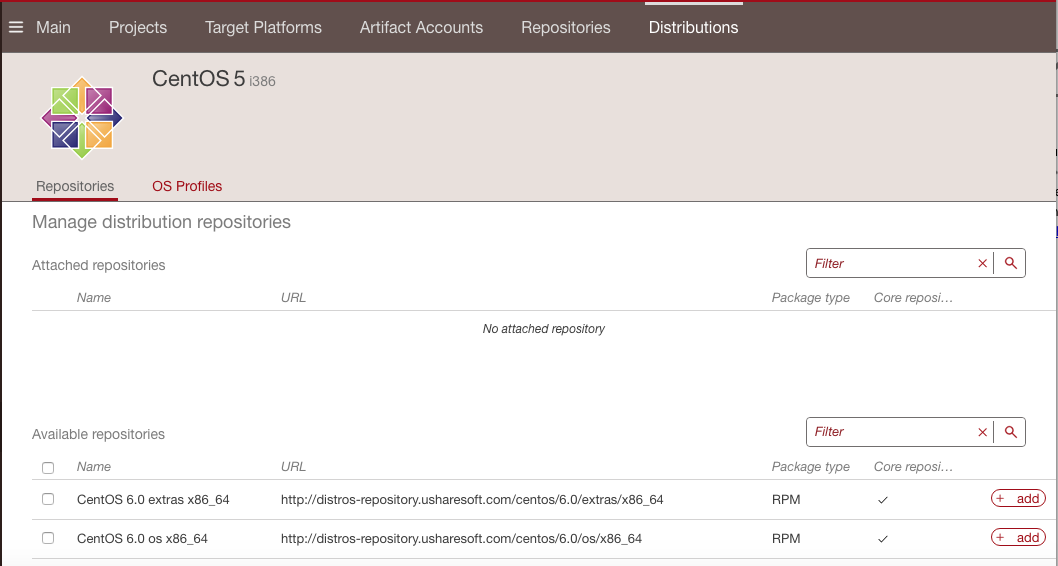
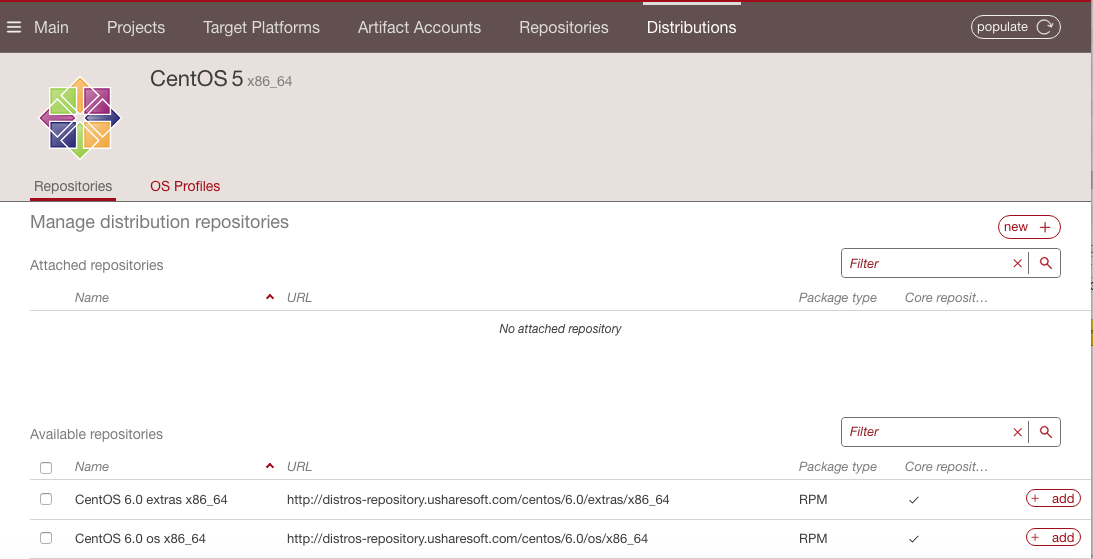
integrate new screen and note to show create repo from distrib screen

diff --git a/admin/en/source/pages/manage-resources/manage-os.rst b/admin/en/source/pages/manage-resources/manage-os.rst
@@ -86,11 +86,13 @@ In order to add an OS to an organisation you manage:
 
 		.. image:: /images/add-repo.png
 
+		You can also create new repositories by clicking on ``new``. You will be redirected to the page to create new repositories. For more information, refer to :ref:`creating-repo`.
+
 	#. You must populate the repositories. To do so, click on ``populate`` at the top right and follow the instructions in the pop-up window.
 
 		.. image:: /images/populate-popup.png
 
-	.. note:: The populate process will provide the base OS profiles.
+		.. note:: The populate process will provide the base OS profiles.
 
 	#. To add an OS profile (opional), go to the ``OS Profiles`` tab. You can create one by clicking on ``add os profile`` in the top right. Refer to :ref:`create-custom-os`.
 
